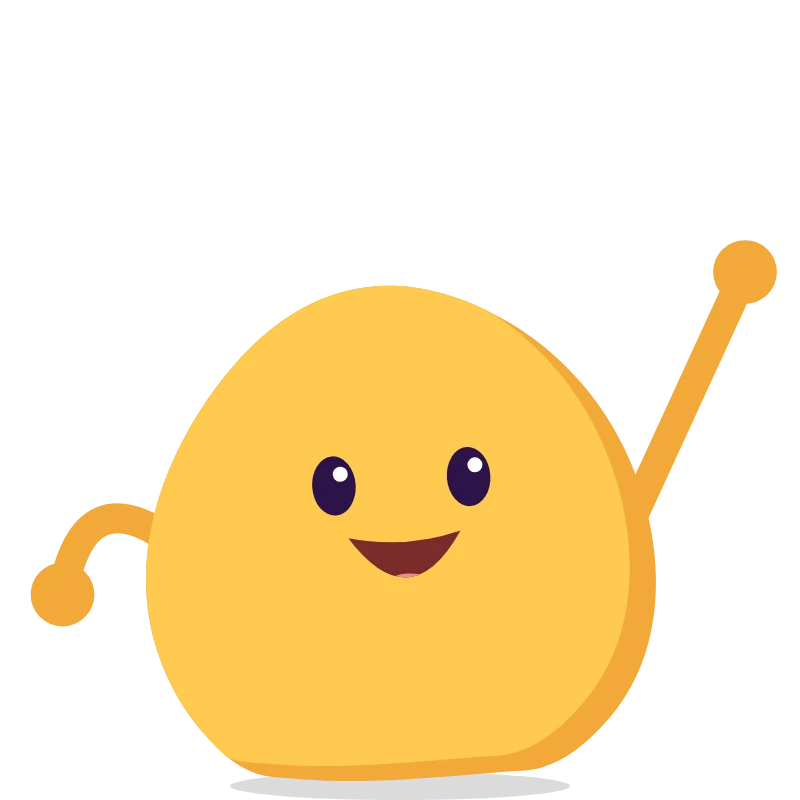
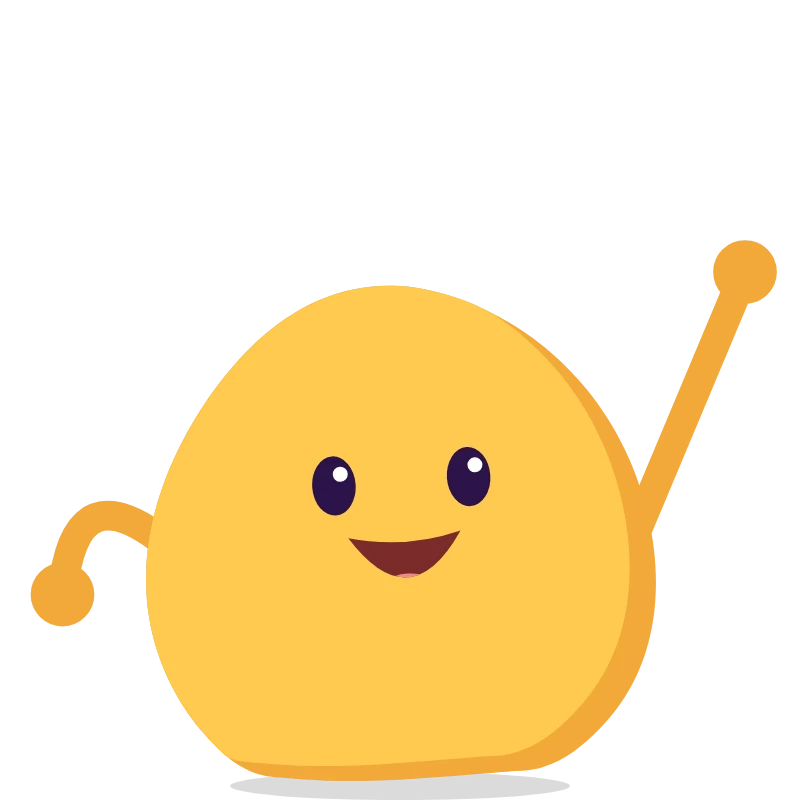
Guide picker in Settings: Hooty (default for new learners) or Lumi; blob Hooty poses; flat Hooty heroes for painted themes

diff --git a/tools/brand/hooty.js b/tools/brand/hooty.js
@@ -96,7 +96,8 @@
   const SHAPES = {
     blob: (a) => { const s = Math.sin(a), W = 150, H = 140; let x = (W / 2) * Math.cos(a) * (1 - (0.2 * (1 - s)) / 2), y = (H / 2) * s; const fl = (H / 2) * 0.84; if (y > fl) y = fl + (y - fl) * 0.25; return [x, y + 4]; },
     star: (a) => { const r = 78 * (0.72 + 0.28 * Math.cos(5 * (a + Math.PI / 2))); return [r * Math.cos(a), r * Math.sin(a) + 2]; },
-    heart: (a) => { const t = a + Math.PI / 2; return [4.4 * 16 * Math.pow(Math.sin(t), 3), -4.4 * (13 * Math.cos(t) - 5 * Math.cos(2 * t) - 2 * Math.cos(3 * t) - Math.cos(4 * t)) - 6]; },
+    // a plump heart: the classic curve blended a quarter of the way to a circle, so the point is soft
+    heart: (a) => { const t = a + Math.PI / 2, hx = 4.1 * 16 * Math.pow(Math.sin(t), 3), hy = -4.1 * (13 * Math.cos(t) - 5 * Math.cos(2 * t) - 2 * Math.cos(3 * t) - Math.cos(4 * t)) - 4; return [mix(hx, 70 * Math.cos(a), 0.26), mix(hy, 66 * Math.sin(a), 0.26)]; },
     triangle: (a) => { const r = mix(poly(a, 3, 76, -Math.PI / 2), 76, 0.1); return [r * Math.cos(a) * 1.12, r * Math.sin(a) + 26]; },
     square: (a) => [66 * sgnp(Math.cos(a), 1 / 3), 62 * sgnp(Math.sin(a), 1 / 3) + 4],
     ball: (a) => [66 * Math.cos(a), 66 * Math.sin(a)],
@@ -208,7 +209,9 @@
     const armK = o.armK ?? 1;
     if (armK > 0.03) {
       const arms = o.arms || [{ to: [-94, -46] }, { to: [94, -46] }];
-      const sh = [[-58, -62], [58, -62]];
+      // shoulders sit on the body's real outline at shoulder height, so arms stay attached on any shape
+      const edge = (side, y) => { let best = null; for (const q of P) if (Math.sign(q[0]) === side && (!best || Math.abs(q[1] - y) < Math.abs(best[1] - y))) best = q; return best ? best[0] * 0.9 : side * 58; };
+      const sh = [[edge(-1, -62), -62], [edge(1, -62), -62]];
       arms.forEach((a, i) => {
         if (!a) return;
         const E = [mix(sh[i][0] * 0.8, a.to[0], armK), mix(sh[i][1], a.to[1], armK)];
@@ -224,8 +227,10 @@
     if (dB && to !== from) g += `<g opacity="${f(m)}">${dB}</g>`;
     g += `</g>`;
     if (o.face !== false) g += face(o, (o.turn || 0) * 18, mix(FACE_Y[from], FACE_Y[to], m));
-    const lift = o.lift || 0, k = Math.max(0.4, 1 - lift / 160);
-    const sh = o.shadow === false ? "" : `<ellipse cx="0" cy="1" rx="${f(70 * k * (o.sx || 1))}" ry="${f(7.5 * k)}" fill="rgba(43,19,73,.12)"/>`;
+    // the shadow lies on the ground under Hooty: groundDy = how far that surface is below his feet (rig units).
+    // It only slides sideways with him; it shrinks and fades with his height above that surface.
+    const lift = o.lift || 0, gd = o.groundDy || 0, hgt = Math.max(0, lift + gd), k = Math.max(0.35, 1 - hgt / 170);
+    const sh = o.shadow === false ? "" : `<ellipse cx="0" cy="${f(1 + gd)}" rx="${f(70 * k)}" ry="${f(7.5 * k)}" fill="rgba(43,19,73,${f(0.12 * (0.45 + 0.55 * k))})"/>`;
     return sh + `<g transform="translate(0 ${f(-lift)}) rotate(${f(o.lean || 0)}) scale(${f(o.sx || 1)} ${f(o.sy || 1)})">${g}</g>`;
   }
 
@@ -272,7 +277,7 @@
   /* Butter filter: average a state function over +-0.08 s (gaussian, 9 taps), clamped to [lo, hi].
      Every number in the state is smoothed (positions, squash, tilt, arms, gaze, eyelids, mouth mix);
      shape morphs, colours and strings come from the centre sample so morphs stay crisp. */
-  const KEEP = new Set(["m", "col", "spin", "wob", "eyes", "mouth", "mouthPrev", "shadow", "face", "hand", "screen"]);
+  const KEEP = new Set(["m", "col", "groundDy", "spin", "wob", "eyes", "mouth", "mouthPrev", "shadow", "face", "hand", "screen"]);
   const TAPS = [-4, -3, -2, -1, 0, 1, 2, 3, 4].map((i) => [i * 0.02, Math.exp(-Math.pow(i * 0.02 / 0.04, 2) / 2)]);
   function avg(samples, ws, c) {
     const v = samples[c];

diff --git a/public/engine/core/theme.js b/public/engine/core/theme.js
@@ -48,10 +48,7 @@ export function applyTheme(theme, { root = document.documentElement } = {}) {
 
   // A url() inside a CSS custom property resolves against the stylesheet that
   // uses it (css/ui.css), not the document. So build an absolute URL.
-  if (theme.hero) {
-    const abs = new URL(`${theme.base || './themes'}/${theme.id}/${theme.hero}`, document.baseURI).href;
-    root.style.setProperty('--hero-image', `url("${abs}")`);
-  }
+  setHero(theme);
 
   // The theme stylesheet lives beside theme.json. theme.css may be named
   // explicitly, otherwise it is always <theme-id>/theme.css. Falling back to
@@ -80,19 +77,27 @@ export function assetFor(theme, path) {
   return `${base}/${theme.id}/${path}`;
 }
 
-// Two guides walk beside the child. Lumi the explorer is the default for now; Hooty the owl is ready but switched off (SHOW_GUIDE_PICKER in app.js).
-// The theme's own mascot paths still describe Lumi, so a theme can bring its own art without touching the owl.
+// Two guides walk beside the child, picked in Settings: Hooty (the blob mascot, art from tools/brand) or Lumi
+// the explorer. The theme's own mascot paths describe Lumi, so a theme can bring its own art without touching Hooty.
+// With Hooty, painted themes swap their hero for a flat one in Hooty's style (theme.json `heroHooty`).
 let guide = 'lumi';
-export function setGuide(g) { guide = g === 'hooty' ? 'hooty' : 'lumi'; }
+function setHero(theme) {
+  if (!theme) return;
+  const file = guide === 'hooty' && theme.heroHooty ? theme.heroHooty : theme.hero;
+  if (!file) return;
+  const abs = new URL(`${theme.base || './themes'}/${theme.id}/${file}`, document.baseURI).href;
+  document.documentElement.style.setProperty('--hero-image', `url("${abs}")`);
+}
+export function setGuide(g) { guide = g === 'hooty' ? 'hooty' : 'lumi'; setHero(current); }
 export function currentGuide() { return guide; }
 export function guideName() { return guide === 'lumi' ? 'Lumi' : 'Hooty'; }
 export function guideAvatarSrc(which, mood = 'idle') {
-  return which === 'lumi' ? `./characters/lumi/avatar-${mood}.webp` : `./characters/hooty/snowy3-avatar-${mood}.webp`;
+  return which === 'lumi' ? `./characters/lumi/avatar-${mood}.webp` : `./characters/blob/hooty-avatar-${mood}.webp`;
 }
 
 export function mascotImage(mood = 'idle') {
   if (!current) return null;
-  if (guide === 'hooty') return themeAsset(`../../characters/hooty/snowy3-${mood === 'happy' || mood === 'wrong' ? mood : 'idle'}.webp`);
+  if (guide === 'hooty') return themeAsset(`../../characters/blob/hooty-${mood === 'happy' || mood === 'wrong' ? mood : 'idle'}.webp`);
   if (!current.mascot) return null;
   const src = current.mascot[mood] || current.mascot.idle;
   return src ? themeAsset(src) : null;
@@ -103,7 +108,7 @@ export function mascotImage(mood = 'idle') {
 export function mascotAvatar(mood = 'idle') {
   const full = mascotImage(mood);
   if (!full) return null;
-  return guide === 'hooty' ? full.replace(/snowy3-/, 'snowy3-avatar-') : full.replace(/explorer-/, 'avatar-');
+  return guide === 'hooty' ? full.replace(/hooty-(idle|happy|wrong)/, 'hooty-avatar-$1') : full.replace(/explorer-/, 'avatar-');
 }
 
 export function themeCopy(tone, key, fallback = '') {

diff --git a/public/engine/app.js b/public/engine/app.js
@@ -9,8 +9,8 @@ import { state, boot, activeLearner, persist, addXP,
   heartsRegenerated, touchStreak, recordActivity, recordLesson, weakSpots,
   unlockReward, todayKey, exportSave, importSave } from './core/state.js';
 import { applyTheme, getTheme, themeAsset, assetFor, mascotImage, mascotAvatar, themeCopy, setGuide, currentGuide, guideAvatarSrc } from './core/theme.js';
-// Brand art (tools/brand/make.sh): blob Hooty on the home hero and as the logo mark.
-const BRAND_HERO = './characters/blob/hooty-stage.webp', BRAND_MARK = './characters/blob/hooty-mark.webp';
+// Brand art (tools/brand/make.sh): blob Hooty as the logo mark.
+const BRAND_MARK = './characters/blob/hooty-mark.webp';
 import { t, setLocale, getLocale, availableLocales } from './core/i18n.js';
 import { getActivityModule } from './activities/index.js';
 import { icon } from './core/icons.js';
@@ -43,8 +43,8 @@ function sound(kind, arg) {
   if (kind === 'wrong' || kind === 'correct' || kind === 'win') haptic(kind);
 }
 
-// Hooty the owl is built and ready but off for now: while this is false everyone has Lumi and Settings shows no choice.
-const SHOW_GUIDE_PICKER = false;
+// Settings lets each child pick their guide: Hooty or Lumi.
+const SHOW_GUIDE_PICKER = true;
 
 function applyLearnerPrefs() {
   const l = activeLearner();
@@ -412,9 +412,9 @@ function screenHome() {
   const due = practiceSet(10);
 
   const stage = el('section', { class: 'stage' });
-  const art = el('div', { class: `stage__art${currentGuide() === 'hooty' ? ' stage__art--night' : ''}` });
-  // the home hero shows the brand mascot (blob Hooty); the guide beside lessons is still mascotImage()
-  art.append(el('img', { class: 'stage__mascot', src: BRAND_HERO, alt: '' }));
+  const art = el('div', { class: 'stage__art' });
+  const mascot = mascotImage('idle');
+  if (mascot) art.append(el('img', { class: 'stage__mascot', src: mascot, alt: '' }));
 
   const copy = el('div', { class: 'stage__copy' });
   copy.append(
@@ -1618,7 +1618,7 @@ function screenSettings() {
 
   const guidePicker = el('div', { class: 'guide-picker', role: 'radiogroup', 'aria-label': 'Your guide' },
     [['hooty', 'Hooty'], ['lumi', 'Lumi']].map(([id, label]) => {
-      const on = (l?.guide2 || 'lumi') === id;
+      const on = (l?.guide2 || 'hooty') === id;
       const b = el('button', { class: `guide-pick${on ? ' is-on' : ''}`, type: 'button', role: 'radio', 'aria-checked': String(on), 'aria-label': label }, [
         el('img', { src: guideAvatarSrc(id), alt: '', width: '64', height: '64' }),
         el('span', { text: label }),

diff --git a/tools/brand/brand.html b/tools/brand/brand.html
@@ -8,6 +8,13 @@ const P="#4b2597",P2="#5a31a8",wave=[{to:[-90,-50],bend:1,len:48},{to:[92,-136],
 const hooty=(x,y,k,o={})=>`<g transform="translate(${x} ${y}) scale(${k})">${H.svg(Object.assign({wob:1.2,eyes:"open",mouth:"grin",look:[0.1,-0.05],tilt:-4,shadow:false,arms:wave},o))}</g>`;
 const mark=(S,bg,round)=>`${round?`<circle cx="${S/2}" cy="${S/2}" r="${S/2}" fill="${bg}"/>`:`<rect width="${S}" height="${S}" fill="${bg}"/>`}`;
 const A={
+ // guide poses (full body, transparent) and round avatars, used when a child picks Hooty as their guide
+ "guide-idle":[800,800,()=>`<ellipse cx="400" cy="786" rx="170" ry="14" fill="rgba(0,0,0,.14)"/>`+hooty(400,782,3.75,{mouth:"smile",tilt:-3})],
+ "guide-happy":[800,800,()=>`<ellipse cx="400" cy="786" rx="150" ry="12" fill="rgba(0,0,0,.12)"/>`+hooty(400,770,3.6,{eyes:"happy",mouth:"grin",tilt:0,arms:[{to:[-84,-150],bend:1,len:66},{to:[84,-150],bend:-1,len:66}]})],
+ "guide-wrong":[800,800,()=>`<ellipse cx="400" cy="786" rx="170" ry="14" fill="rgba(0,0,0,.14)"/>`+hooty(400,782,3.75,{eyes:"open",mouth:"wobble",look:[0,0.7],tilt:8,arms:[{to:[-102,-96],bend:-1,len:60},{to:[102,-96],bend:1,len:60}]})],
+ "avatar-idle":[256,256,()=>hooty(128,232,1.45,{mouth:"smile",tilt:-3,armK:0})],
+ "avatar-happy":[256,256,()=>hooty(128,232,1.45,{eyes:"happy",mouth:"grin",tilt:0,armK:0})],
+ "avatar-wrong":[256,256,()=>hooty(128,232,1.45,{eyes:"open",mouth:"wobble",look:[0,0.7],tilt:8,armK:0})],
  stage:[800,800,()=>`<ellipse cx="400" cy="786" rx="170" ry="14" fill="rgba(0,0,0,.14)"/>`+hooty(400,782,3.75)],
  mark:[192,192,()=>mark(192,P,true)+hooty(96,150,0.95,{armK:0,tilt:0,mouth:"smile"})],
  favicon:[64,64,()=>mark(64,P,true)+hooty(32,52,0.33,{armK:0,tilt:0,mouth:"smile"})],

diff --git a/public/engine/core/state.js b/public/engine/core/state.js
@@ -24,7 +24,7 @@ function freshLearner(name = 'Learner') {
     dailyXp: 0,
     dailyGoal: DAILY_GOAL_XP,
     theme: null,
-    guide2: 'lumi',         // which character walks beside the child: 'lumi' (explorer, default) or 'hooty' (owl); a new name so everyone starts on Lumi
+    guide2: 'hooty',        // which character walks beside the child: 'hooty' (blob mascot, default for new learners) or 'lumi' (explorer); saved learners keep theirs
     lang: 'en',
     fontScale: 1,
     dyslexiaFont: false,
@@ -60,7 +60,7 @@ function normaliseLearner(raw, id) {
   out.name = String(l.name ?? 'Learner').slice(0, 24) || 'Learner';
   out.days = Object.fromEntries(Object.entries(out.days).filter(([k, v]) => /^\d{4}-\d{2}-\d{2}$/.test(k) && Number.isFinite(v) && v >= 0).slice(-60));
   out.board = out.board.filter((b) => /^[\w-]{1,40}@\d{1,3},\d{1,3}$/.test(b)).slice(0, 40);
-  if (out.guide2 !== 'hooty') out.guide2 = 'lumi';
+  if (out.guide2 !== 'hooty' && out.guide2 !== 'lumi') out.guide2 = 'hooty';
   out.fontScale = Math.min(1.5, Math.max(0.85, out.fontScale || 1));
   // fields added after the first release
   if (typeof l.grade === 'string' || typeof l.grade === 'number') out.grade = String(l.grade).slice(0, 4);
